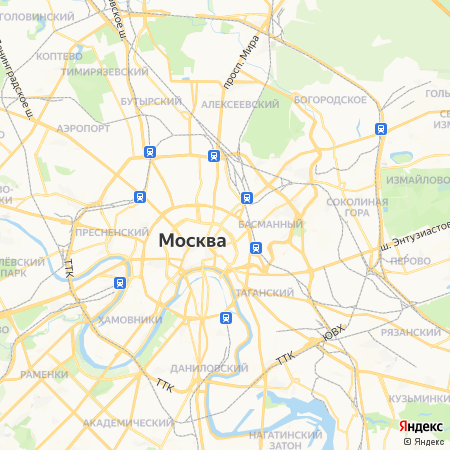
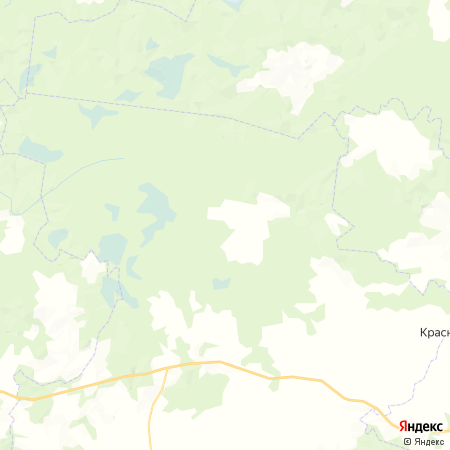
Добавлена возможность перемещения по карте

diff --git a/main.py b/main.py
@@ -51,6 +51,20 @@ while running:
             elif event.key == 1073741902:
                 scale += 1
                 new_frame = True
+            elif event.key == 1073741906:
+                lat += 4 * float(eval(SCALE_TO_SPN))
+                new_frame = True
+            elif event.key == 1073741905:
+                lat -= 4 * float(eval(SCALE_TO_SPN))
+                new_frame = True
+            elif event.key == 1073741904:
+                long -= 4 * float(eval(SCALE_TO_SPN))
+                new_frame = True
+            elif event.key == 1073741903:
+                long += 4 * float(eval(SCALE_TO_SPN))
+                new_frame = True
+            long = (long + 180) % 360 - 180
+            lat = (lat + 90) % 180 - 90
             if scale < 1:
                 scale = 1
             elif scale > 6:
